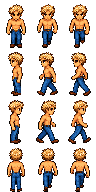
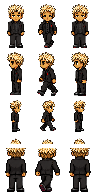
fix: compose age-aware splashes and harmonize character art

diff --git a/app/globals.css b/app/globals.css
@@ -81,7 +81,7 @@ input:checked + .switch::after { left: 16px; background: var(--green); }
 .world-base-asset { position: absolute; z-index: 0; inset: 0; width: 100%; height: 100%; object-fit: fill; image-rendering: pixelated; image-rendering: crisp-edges; user-select: none; pointer-events: none; }
 .path-arrow { position: absolute; z-index: 2; top: 540px; padding: 8px 10px; color: #684f33; border: 2px solid rgba(105,79,50,.34); background: rgba(236,207,144,.74); font: 800 9px/1 var(--font-geist-mono); letter-spacing: .12em; }
 .path-arrow span { color: #3f6c3c; font-size: 16px; vertical-align: middle; }.start-arrow { left: 28px; }.end-arrow { right: 28px; }
-.pixel-landmark { --trim:#563d35; position: absolute; z-index: 4; top: 84px; width: 300px; height: 316px; transform: translateX(-50%); color: #231f18; pointer-events: none; }
+.pixel-landmark { --trim:#563d35; position: absolute; top: 84px; width: 300px; height: 316px; transform: translateX(-50%); color: #231f18; pointer-events: none; }
 .landmark-asset { position: absolute; z-index: 1; left: 50%; bottom: 57px; height: auto; max-height: 218px; transform: translateX(-50%); object-fit: contain; image-rendering: pixelated; image-rendering: crisp-edges; filter: drop-shadow(5px 7px 0 rgba(38,58,32,.2)); }
 .building-glyph { position: absolute; z-index: 3; right: 26px; top: 38px; width: 24px; height: 24px; display: grid; place-items: center; color: #f5dda0; background: rgba(18,34,28,.87); border: 2px solid rgba(255,255,255,.17); font: 900 11px/1 var(--font-geist-mono); box-shadow: 2px 2px 0 rgba(0,0,0,.22); }
 .location-plaque { position: absolute; z-index: 5; left: 50%; bottom: 0; width: 218px; transform: translateX(-50%); display: grid; gap: 4px; padding: 8px 10px; text-align: center; color: #eaf1d7; background: #14251c; border: 3px solid #294c31; box-shadow: 4px 4px 0 rgba(32,54,33,.23); }
@@ -108,7 +108,7 @@ input:checked + .switch::after { left: 16px; background: var(--green); }
 .jao-token.is-found i { opacity: 1; }
 .player { position: absolute; width: 64px; height: 96px; transform: translate(-50%, -100%); transform-origin: center bottom; pointer-events: none; }
 .player-shadow { position: absolute; z-index: -1; bottom: -2px; left: 15px; width: 34px; height: 9px; background: rgba(0,0,0,.32); border-radius: 50%; }
-.player-sprite { position: absolute; inset: 0; background: url('/characters/dry-baby.png') left top / 192px 384px no-repeat; image-rendering: pixelated; image-rendering: crisp-edges; transform-origin: 50% 100%; }
+.player-sprite { position: absolute; inset: 0; overflow: visible; background: url('/characters/dry-baby.png') left top / 192px 384px no-repeat; image-rendering: pixelated; image-rendering: crisp-edges; transform-origin: 50% 100%; }
 .player.is-running .player-sprite { animation: runStride .176s steps(2) infinite; }
 .player.is-running::after { content: ""; position: absolute; left: 5px; bottom: 1px; width: 38px; height: 14px; z-index: -2; background: radial-gradient(ellipse at 25% 70%, rgba(237,221,172,.64) 0 8%, transparent 10%), radial-gradient(ellipse at 52% 55%, rgba(237,221,172,.42) 0 7%, transparent 9%), radial-gradient(ellipse at 78% 78%, rgba(237,221,172,.28) 0 6%, transparent 8%); animation: runDust .176s steps(2) infinite; }
 .player b { position: absolute; left: 50%; bottom: -14px; transform: translateX(-50%); padding: 2px 5px; background: #09120e; color: var(--green); border: 1px solid #426048; font: 8px/1 var(--font-geist-mono); }
@@ -307,7 +307,7 @@ input:checked + .switch::after { left: 16px; background: var(--green); }
 @media (max-width: 560px) {
   .intro { padding-inline: 18px; }.intro-nav { padding-inline: 18px; }.intro-nav .brand span:last-child { display: none; }.intro-actions { flex-direction: column; }.intro-actions button { width: 100%; }.intro-preferences { flex-direction: column; align-items: center; gap: 12px; }
   .quest-box { padding: 7px; }.quest-gem { width: 34px; height: 34px; }.quest-box strong { font-size: 10px; }.hud-actions > button { height: 38px; padding: 0 9px; }.hud-actions > button:first-child { display: none; }
-  .hotspot-label { display: none; }.player { width: 48px; height: 64px; }
+  .hotspot-label { display: none; }
   .memory-modal { padding: 30px 23px; }.memory-modal h2 { font-size: 31px; }.inventory-panel > footer { justify-content: stretch; }.inventory-panel > footer button { flex: 1; }
   .quick-nav { padding-inline: 15px; }.quick-nav .brand span:last-child { display: none; }.quick-hero, .quick-section { padding-left: 20px; padding-right: 20px; }.quick-hero h1 { font-size: 55px; }.hero-actions { flex-direction: column; }.hero-actions > * { width: 100%; }
   .quick-stats { grid-template-columns: repeat(2, 1fr); }.quick-stats div:nth-child(2) { border-right: 0; }.quick-stats div:nth-child(-n+2) { border-bottom: 1px solid var(--line); }
@@ -383,14 +383,17 @@ input:checked + .switch::after { left: 16px; background: var(--green); }
 .scene-tree-left { left: -11px; bottom: 44px; width: 134px; height: 144px; }
 .scene-tree-right { right: 6px; bottom: 48px; width: 112px; height: 120px; }
 .scene-building { position: absolute; z-index: 2; left: 50%; bottom: 22px; width: min(240px, 37%); height: 196px; transform: translateX(-50%); object-fit: contain; image-rendering: pixelated; }
-.scene-player-back, .scene-far-person { position: absolute; z-index: 4; width: 64px; height: 96px; background: url('/characters/dry-adult.png') 0 0 / 192px 384px no-repeat; image-rendering: pixelated; transform-origin: center bottom; }
-.scene-player-back { left: 16%; bottom: 12px; transform: scale(1.32); background-position: 0 100%; }
-.scene-player-baby { background-image: url('/characters/dry-baby.png'); transform: scale(.8); }.scene-player-child { background-image: url('/characters/dry-teen.png'); transform: scale(.9); }.scene-player-teen { background-image: url('/characters/dry-teen.png'); transform: scale(1); }
+.scene-player-back, .scene-far-person { position: absolute; z-index: 4; width: 64px; height: 96px; image-rendering: pixelated; image-rendering: crisp-edges; transform-origin: center bottom; }
+.scene-player-back { left: 16%; bottom: 4px; background: url('/characters/dry-splash.png') 0 0 / 192px 96px no-repeat; transform: scale(1.5); }
+.scene-age-baby { background-position: 0 0; }.scene-age-teen { background-position: -64px 0; }.scene-age-adult { background-position: -128px 0; }
 .scene-far-person { left: 60%; bottom: 95px; transform: scale(.84); }
+.scene-far-person { background: url('/characters/dry-adult.png') 0 0 / 192px 384px no-repeat; }
 .scene-person-nilo { background-image: url('/characters/nilo.png'); }
 .scene-person-luna { filter: sepia(.45) saturate(1.4) hue-rotate(231deg); }
 .scene-person-python { filter: sepia(.8) saturate(1.9) hue-rotate(212deg) brightness(.83); }
 .scene-person-jao { background-image: url('/characters/jao.png'); }
+.scene-nilo .scene-player-back { left: 34%; bottom: 1px; }.scene-nilo .scene-far-person { left: 59%; bottom: 119px; transform: scale(.84); }
+.scene-jao .scene-player-back { left: 16%; bottom: 1px; }.scene-jao .scene-far-person { left: 78%; bottom: 118px; transform: scale(.7); }
 .scene-jao .scene-ground { filter: hue-rotate(17deg) brightness(.77); }.scene-python .scene-ground { filter: hue-rotate(28deg) brightness(.72); }
 .scene-caption { position: absolute; z-index: 6; left: 12px; top: 12px; padding: 6px 8px; border: 1px solid rgba(223,239,217,.23); background: rgba(8,16,12,.7); color: #dbe4cf; font: 700 8px/1 var(--font-geist-mono); letter-spacing: .14em; }
 .story-bottom { min-height: 193px; padding: 20px 22px 21px; display: grid; grid-template-columns: 118px 1fr auto; align-items: center; gap: 22px; border-top: 1px solid #394b3b; background: linear-gradient(135deg, #132019, #09110f); }
@@ -414,7 +417,7 @@ input:checked + .switch::after { left: 16px; background: var(--green); }
 .battle-actions { display: grid; grid-template-columns: repeat(3, 1fr); gap: 8px; margin-top: 25px; }.battle-actions button { min-height: 46px; border: 1px solid #36443d; background: #111b17; color: #ccd3c9; font: 700 9px/1.2 var(--font-geist-mono); cursor: pointer; }.battle-actions button.suggested { border-color: #93d875; color: #b2e998; }
 
 /* Poem pages and archive. */
-.poem-window { width: min(520px, 100%); position: relative; padding: 45px 39px 36px; border: 1px solid #947d4e; background: linear-gradient(145deg, #191b16, #111713); box-shadow: 10px 10px 0 rgba(0,0,0,.35); }.poem-window > small { color: #ceb277; font: 700 9px/1 var(--font-geist-mono); letter-spacing: .18em; }.poem-window h2 { margin: 18px 0 13px; font-family: Georgia, serif; font-size: 37px; font-weight: 400; }.poem-rule { width: 67px; height: 2px; background: #bda063; }.poem-window > p { margin: 24px 0 30px; color: #e1ddcc; white-space: pre-line; font: 18px/1.8 Georgia, serif; }
+.poem-window { width: min(720px, 100%); max-height: min(92svh, 820px); position: relative; overflow: auto; padding: 0; border: 1px solid #947d4e; background: linear-gradient(145deg, #191b16, #111713); box-shadow: 10px 10px 0 rgba(0,0,0,.35); }.poem-window .conversation-scene { height: 190px; }.poem-page { padding: 32px 39px 36px; }.poem-page > small { color: #ceb277; font: 700 9px/1 var(--font-geist-mono); letter-spacing: .18em; }.poem-window h2 { margin: 18px 0 13px; font-family: Georgia, serif; font-size: 37px; font-weight: 400; }.poem-rule { width: 67px; height: 2px; background: #bda063; }.poem-page > p { margin: 24px 0 30px; color: #e1ddcc; white-space: pre-line; font: 18px/1.8 Georgia, serif; }
 .computer-window { width: min(690px, 100%); max-height: min(780px, 85svh); overflow: auto; padding: 24px; border: 1px solid #486250; background: #0a1310; box-shadow: 10px 10px 0 rgba(0,0,0,.4); }.computer-window > header { display: flex; justify-content: space-between; align-items: center; }.computer-window > header small { color: #8ed780; font: 700 9px/1 var(--font-geist-mono); letter-spacing: .14em; text-transform: uppercase; }.computer-window > header h2 { margin: 8px 0; font-size: 26px; }.computer-close { width: 37px; height: 37px; display: grid; place-items: center; border: 1px solid #34443a; background: #121d17; cursor: pointer; }.computer-status { margin: 17px 0 23px; padding: 10px 12px; display: flex; align-items: center; gap: 8px; border: 1px solid #29372f; color: #8d9d91; font: 700 8px/1 var(--font-geist-mono); }.computer-status > span { width: 7px; height: 7px; border-radius: 50%; background: #8de078; }.computer-status b { margin-left: auto; color: #d7e5d2; }.computer-window section > h3 { margin: 0 0 12px; color: #9cc793; font: 700 10px/1 var(--font-geist-mono); letter-spacing: .13em; text-transform: uppercase; }.computer-empty { padding: 24px 12px; color: #87988c; font-size: 13px; }.computer-files { display: grid; gap: 8px; }.computer-files > button { min-height: 62px; padding: 10px 12px; display: flex; align-items: center; gap: 11px; text-align: left; border: 1px solid #29382e; background: #101b15; cursor: pointer; }.computer-files > button > .hud-icon { color: #d6bb79; }.computer-files > button > span { display: grid; gap: 5px; }.computer-files > button small { color: #799181; font: 700 8px/1 var(--font-geist-mono); }.computer-files > button strong { font-size: 13px; }.computer-files > button > b { margin-left: auto; color: #a4dd8d; }.computer-secret { margin-top: 28px; padding-top: 18px; border-top: 1px solid #2a362e; }.computer-secret > div { display: flex; align-items: center; gap: 15px; }.computer-secret .portrait-frame { width: 61px; height: 79px; }.computer-secret > div > span { display: grid; gap: 7px; }.computer-secret > div strong { color: #d0b8fa; font-size: 14px; }.computer-secret > div small { color: #9ba79d; font-size: 11px; }
 
 /* Mission rewards use the exact same native 32 × 48 sprites as the world. */

diff --git a/app/page.tsx b/app/page.tsx
@@ -394,11 +394,11 @@ const SCENERY: SceneryItem[] = [
   { x: 5580, y: 610, kind: "wildflowers", width: 37 },
 ];
 
-const EVOLUTION_QUESTS: Record<Exclude<AgeStage, "adult">, { memories: string[]; guide: NpcId; title: Record<Lang, string>; hint: Record<Lang, string> }> = {
+const EVOLUTION_QUESTS: Record<Exclude<AgeStage, "adult">, { memories: string[]; guide?: NpcId; title: Record<Lang, string>; hint: Record<Lang, string> }> = {
   baby: {
-    memories: ["origins", "joaquim"], guide: "nilo",
+    memories: ["origins", "joaquim"],
     title: { pt: "Crescer: primeiros passos", en: "Grow up: first steps", es: "Crecer: primeros pasos" },
-    hint: { pt: "Descubra suas origens, visite a escola e converse com Nilo.", en: "Discover your origins, visit the school and talk to Nilo.", es: "Descubre tus orígenes, visita la escuela y habla con Nilo." },
+    hint: { pt: "Descubra suas origens e visite a escola para completar a missão.", en: "Discover your origins and visit the school to complete the quest.", es: "Descubre tus orígenes y visita la escuela para completar la misión." },
   },
   teen: {
     memories: ["art", "design", "etec"], guide: "luna",
@@ -441,7 +441,7 @@ const spriteStyle = (index: number): React.CSSProperties => ({
 });
 
 function PixelLandmark({ landmark, memory, lang }: { landmark: Landmark; memory: Memory; lang: Lang }) {
-  return <div className={`pixel-landmark landmark-${landmark.kind}`} style={{ left: landmark.x }} aria-hidden="true">
+  return <div className={`pixel-landmark landmark-${landmark.kind}`} style={{ left: landmark.x, zIndex: 400 }} aria-hidden="true">
     <img className="landmark-asset" src={`/world/structures/${landmark.id}.png`} alt="" decoding="async" style={{ width: landmark.width }} />
     <span className="building-glyph">{landmark.glyph}</span>
     <div className="location-plaque"><small>{memory.year}</small><strong>{memory.title[lang]}</strong></div>
@@ -532,7 +532,7 @@ export default function Home() {
           setAgeStage(saved.ageStage === "teen" || saved.ageStage === "adult"
             ? saved.ageStage
             : savedIds(saved.unlocked).includes("etec") ? "adult"
-              : savedIds(saved.unlocked).includes("joaquim") && Array.isArray(saved.spokenNpcs) && saved.spokenNpcs.includes("nilo") ? "teen" : "baby");
+              : savedIds(saved.unlocked).includes("origins") && savedIds(saved.unlocked).includes("joaquim") ? "teen" : "baby");
           setFavorites(savedIds(saved.favorites));
           setHidden(savedIds(saved.hidden));
           setOrder(Array.from(new Set([...savedIds(saved.order), ...memories.map((memory) => memory.id)])));
@@ -576,7 +576,7 @@ export default function Home() {
   useEffect(() => {
     if (!hydrated.current || phase !== "game" || ageStage === "adult") return;
     const mission = EVOLUTION_QUESTS[ageStage];
-    if (!mission.memories.every((memoryId) => unlocked.includes(memoryId)) || !spokenNpcs.includes(mission.guide)) return;
+    if (!mission.memories.every((memoryId) => unlocked.includes(memoryId)) || (mission.guide && !spokenNpcs.includes(mission.guide))) return;
     const nextStage: Exclude<AgeStage, "baby"> = ageStage === "baby" ? "teen" : "adult";
     const frame = window.requestAnimationFrame(() => {
       setAgeStage(nextStage);
@@ -755,21 +755,18 @@ export default function Home() {
     backgroundSize: "192px 384px",
     backgroundPosition: `-${(moving ? walkFrame : 0) * 64}px -${directionRow[direction] * 96}px`,
   };
-  const agePortrait: CastId = ageStage === "adult" ? "dry" : ageStage;
   const evolutionQuest = ageStage === "adult" ? null : EVOLUTION_QUESTS[ageStage];
   const evolutionProgress = evolutionQuest
-    ? evolutionQuest.memories.filter((memoryId) => unlocked.includes(memoryId)).length + Number(spokenNpcs.includes(evolutionQuest.guide))
+    ? evolutionQuest.memories.filter((memoryId) => unlocked.includes(memoryId)).length + Number(Boolean(evolutionQuest.guide && spokenNpcs.includes(evolutionQuest.guide)))
     : 0;
-  const evolutionTotal = evolutionQuest ? evolutionQuest.memories.length + 1 : 0;
+  const evolutionTotal = evolutionQuest ? evolutionQuest.memories.length + Number(Boolean(evolutionQuest.guide)) : 0;
   const questTitle = evolutionQuest
     ? evolutionQuest.title[lang]
     : bossDefeated
     ? collectedPoems.length === POEMS.length
       ? (lang === "en" ? "Every verse recovered" : lang === "es" ? "Todos los versos recuperados" : "Todos os versos recuperados")
       : (lang === "en" ? "Recover forgotten poems" : lang === "es" ? "Recupera los poemas olvidados" : "Recupere os poemas perdidos")
-    : spokenNpcs.includes("nilo")
-      ? (lang === "en" ? "Find and defeat Python" : lang === "es" ? "Encuentra y derrota a Python" : "Encontre e derrote Python")
-      : t.missionName;
+    : (lang === "en" ? "Find and defeat Python" : lang === "es" ? "Encuentra y derrota a Python" : "Encontre e derrote Python");
 
   const orderedMemories = order.map((id) => memories.find((m) => m.id === id)).filter(Boolean) as Memory[];
   const selectedForPrint = orderedMemories.filter((m) => unlocked.includes(m.id) && !hidden.includes(m.id));
@@ -969,13 +966,13 @@ export default function Home() {
         <button className="down" aria-label={lang === "en" ? "Move down" : lang === "es" ? "Mover abajo" : "Mover para baixo"} onPointerDown={(event) => startTouchMovement(event, "s")} onPointerUp={(event) => stopTouchMovement(event, "s")} onPointerCancel={(event) => stopTouchMovement(event, "s")} onClick={() => movePlayer(0, 24, "down")}>▼</button>
       </div>
 
-      {openMemory && <MemoryModal memory={openMemory} lang={lang} age={agePortrait} unlocked={unlocked.includes(openMemory.id)} onClose={() => setOpenMemory(null)} onFavorite={() => toggle(openMemory.id, setFavorites)} favorite={favorites.includes(openMemory.id)} t={t} />}
+      {openMemory && <MemoryModal memory={openMemory} lang={lang} age={ageStage} unlocked={unlocked.includes(openMemory.id)} onClose={() => setOpenMemory(null)} onFavorite={() => toggle(openMemory.id, setFavorites)} favorite={favorites.includes(openMemory.id)} t={t} />}
       {inventoryOpen && <Inventory lang={lang} t={t} memories={orderedMemories} unlocked={unlocked} favorites={favorites} hidden={hidden} jaoUnlocked={jaoUnlocked} onClose={() => setInventoryOpen(false)} onOpen={(memory) => { setInventoryOpen(false); reveal(memory); }} onFavorite={(id) => toggle(id, setFavorites)} onHide={(id) => toggle(id, setHidden)} onMove={reorder} onPrint={() => window.print()} onShare={share} onRevealAll={revealAll} />}
       {mapOpen && <WorldMap lang={lang} t={t} explored={explored} pos={pos} unlocked={unlocked} bossDefeated={bossDefeated} collectedPoems={collectedPoems} onClose={() => setMapOpen(false)} />}
-      {openDialogue && <DialogueModal npc={openDialogue} lang={lang} index={dialogueIndex} onAdvance={advanceDialogue} onClose={() => { setOpenDialogue(null); setDialogueIndex(0); }} />}
-      {battleOpen && <BattleModal lang={lang} hp={bossHp} playerHp={playerHp} round={battleRound} onAction={battleAction} onClose={() => setBattleOpen(false)} />}
+      {openDialogue && <DialogueModal npc={openDialogue} age={ageStage} lang={lang} index={dialogueIndex} onAdvance={advanceDialogue} onClose={() => { setOpenDialogue(null); setDialogueIndex(0); }} />}
+      {battleOpen && <BattleModal age={ageStage} lang={lang} hp={bossHp} playerHp={playerHp} round={battleRound} onAction={battleAction} onClose={() => setBattleOpen(false)} />}
       {computerOpen && <ComputerModal lang={lang} poems={POEMS} collected={collectedPoems} jaoUnlocked={jaoUnlocked} bossDefeated={bossDefeated} onRead={(poem) => { setComputerOpen(false); setOpenPoem(poem); }} onClose={() => setComputerOpen(false)} />}
-      {openPoem && <PoemModal poem={openPoem} lang={lang} onClose={() => setOpenPoem(null)} />}
+      {openPoem && <PoemModal poem={openPoem} age={ageStage} lang={lang} onClose={() => setOpenPoem(null)} />}
       {evolutionNotice && <EvolutionModal stage={evolutionNotice} lang={lang} onClose={() => setEvolutionNotice(null)} />}
       {toast && <div className="toast" role="status" aria-live="polite">✦ {toast}</div>}
 
@@ -1011,13 +1008,14 @@ function WorldMap({ lang, t, explored, pos, unlocked, bossDefeated, collectedPoe
   </div>;
 }
 
-function MemoryModal({ memory, lang, age, onClose, onFavorite, favorite, t }: { memory: Memory; lang: Lang; age: CastId; unlocked: boolean; onClose: () => void; onFavorite: () => void; favorite: boolean; t: Record<string, string> }) {
+function MemoryModal({ memory, lang, age, onClose, onFavorite, favorite, t }: { memory: Memory; lang: Lang; age: AgeStage; unlocked: boolean; onClose: () => void; onFavorite: () => void; favorite: boolean; t: Record<string, string> }) {
   const landmark = LANDMARKS.find((item) => item.memoryId === memory.id);
+  const portraitCast: CastId = age === "adult" ? "dry" : age;
   return <div className="modal-backdrop" role="dialog" aria-modal="true" aria-labelledby="memory-title" onMouseDown={(e) => e.target === e.currentTarget && onClose()}>
     <article className="memory-modal enhanced-memory-modal">
       <button className="modal-close" onClick={onClose} aria-label={t.close}>×</button>
-      <SceneStage structure={landmark?.id} cast={age} />
-      <div className="memory-scene-bottom"><Portrait cast={age} /><div className="memory-scene-copy"><div className="memory-year">MEMORY // {memory.id === "future" ? t.current : memory.year}</div><p className="memory-category">{memory.category.toUpperCase()}</p><h2 id="memory-title">{memory.title[lang]}</h2><h3>{memory.subtitle[lang]}</h3><p>{memory.body[lang]}</p><div className="modal-actions"><button className={favorite ? "fav active" : "fav"} onClick={onFavorite} aria-pressed={favorite}>★ {t.favorite}</button>{memory.link && <a href={memory.link} target="_blank" rel="noopener noreferrer">↗ {memory.linkLabel}</a>}</div></div></div>
+      <SceneStage structure={landmark?.id} age={age} />
+      <div className="memory-scene-bottom"><Portrait cast={portraitCast} /><div className="memory-scene-copy"><div className="memory-year">MEMORY // {memory.id === "future" ? t.current : memory.year}</div><p className="memory-category">{memory.category.toUpperCase()}</p><h2 id="memory-title">{memory.title[lang]}</h2><h3>{memory.subtitle[lang]}</h3><p>{memory.body[lang]}</p><div className="modal-actions"><button className={favorite ? "fav active" : "fav"} onClick={onFavorite} aria-pressed={favorite}>★ {t.favorite}</button>{memory.link && <a href={memory.link} target="_blank" rel="noopener noreferrer">↗ {memory.linkLabel}</a>}</div></div></div>
     </article>
   </div>;
 }

diff --git a/app/game-extras.tsx b/app/game-extras.tsx
@@ -16,7 +16,7 @@ export const PORTRAIT_INDEX: Record<CastId, number> = {
 };
 
 export const NPCS: Array<{ id: NpcId; name: string; role: Record<GameLang, string>; x: number; y: number; secret?: boolean }> = [
-  { id: "nilo", name: "Nilo", role: { pt: "Guia da jornada", en: "Journey guide", es: "Guía del viaje" }, x: 1090, y: 545 },
+  { id: "nilo", name: "Nilo", role: { pt: "Guia no fim da jornada", en: "Guide at journey's end", es: "Guía al final del viaje" }, x: 5680, y: 548 },
   { id: "luna", name: "Luna", role: { pt: "Guardião das artes", en: "Keeper of the arts", es: "Guardiana de las artes" }, x: 1455, y: 590 },
   { id: "python", name: "Python", role: { pt: "O erro que bloqueia o caminho", en: "The bug blocking the path", es: "El error que bloquea el camino" }, x: 3360, y: 550 },
   { id: "jao", name: "Jão", role: { pt: "Cantor e compositor · caminho das artes", en: "Singer-songwriter · arts trail", es: "Cantante y compositor · camino del arte" }, x: 2080, y: 826, secret: true },
@@ -177,31 +177,32 @@ export function NpcSprite({ id, x, y, defeated = false }: { id: NpcId; x: number
   </div>;
 }
 
-export function SceneStage({ npc, structure, cast = "dry" }: { npc?: NpcId; structure?: string; cast?: CastId }) {
+export function SceneStage({ npc, structure, age = "adult" }: { npc?: NpcId; structure?: string; age?: AgeStage }) {
   const illustratedScene = npc === "jao" || npc === "nilo" ? `/world/interiors/dialogue-${npc}.png` : null;
   return <div className={`conversation-scene ${npc ? `scene-${npc}` : "scene-memory"}`} aria-label="Cena vista por trás do personagem">
     {illustratedScene ? <img className="scene-illustration" src={illustratedScene} alt="" decoding="async" /> : <>
       <img className="scene-ground" src="/world/terrain/world-base.png" alt="" decoding="async" />
       <img className="scene-tree scene-tree-left" src="/world/scenery/tree.png" alt="" decoding="async" />
       <img className="scene-tree scene-tree-right" src="/world/scenery/bush.png" alt="" decoding="async" />
-      {structure && <img className="scene-building" src={`/world/structures/${structure}.png`} alt="" decoding="async" />}
-      {npc && <span className={`scene-far-person scene-person-${npc}`} />}
-      <span className={`scene-player-back scene-player-${cast}`} />
     </>}
+    {structure && <img className="scene-building" src={`/world/structures/${structure}.png`} alt="" decoding="async" />}
+    {npc && <span className={`scene-far-person scene-person-${npc}`} />}
+    <span className={`scene-player-back scene-age-${age}`} />
     <span className="scene-caption">DRY // POV</span>
   </div>;
 }
 
-export function DialogueModal({ npc, lang, index, onAdvance, onClose }: { npc: NpcId; lang: GameLang; index: number; onAdvance: () => void; onClose: () => void }) {
+export function DialogueModal({ npc, age, lang, index, onAdvance, onClose }: { npc: NpcId; age: AgeStage; lang: GameLang; index: number; onAdvance: () => void; onClose: () => void }) {
   const lines = DIALOGUES[npc];
   const line = lines[index];
+  const portraitCast: CastId = line?.cast === "dry" ? (age === "adult" ? "dry" : age) : line?.cast;
   if (!line) return null;
   return <div className="story-backdrop" role="dialog" aria-modal="true" aria-labelledby="dialogue-speaker">
     <article className={`story-window story-${npc}`}>
       <button className="story-close" onClick={onClose} aria-label={lang === "en" ? "Close" : lang === "es" ? "Cerrar" : "Fechar"}><HudIcon name="close" /></button>
-      <SceneStage npc={npc} />
+      <SceneStage npc={npc} age={age} />
       <div className="story-bottom">
-        <Portrait cast={line.cast} />
+        <Portrait cast={portraitCast} />
         <div className="story-copy"><span>{NPCS.find((item) => item.id === npc)?.role[lang]}</span><h2 id="dialogue-speaker">{line.speaker}</h2><p>{line.text[lang]}</p></div>
         <button className="story-next" onClick={onAdvance}>{index === lines.length - 1 ? (lang === "en" ? "Finish" : lang === "es" ? "Terminar" : "Concluir") : (lang === "en" ? "Next" : lang === "es" ? "Siguiente" : "Continuar")} →</button>
       </div>
@@ -210,19 +211,19 @@ export function DialogueModal({ npc, lang, index, onAdvance, onClose }: { npc: N
   </div>;
 }
 
-export function BattleModal({ lang, hp, playerHp, round, onAction, onClose }: { lang: GameLang; hp: number; playerHp: number; round: number; onAction: (move: "inspect" | "fix" | "run") => void; onClose: () => void }) {
+export function BattleModal({ age, lang, hp, playerHp, round, onAction, onClose }: { age: AgeStage; lang: GameLang; hp: number; playerHp: number; round: number; onAction: (move: "inspect" | "fix" | "run") => void; onClose: () => void }) {
   const copy = lang === "en" ? { title: "PYTHON // FINAL ERROR", hint: "Inspect the failure, correct the logic and execute the solution.", inspect: "01 · INSPECT", fix: "02 · CORRECT", run: "03 · EXECUTE", player: "DRY", enemy: "ERROR" } : lang === "es" ? { title: "PYTHON // ERROR FINAL", hint: "Observa el fallo, corrige la lógica y ejecuta la solución.", inspect: "01 · OBSERVAR", fix: "02 · CORREGIR", run: "03 · EJECUTAR", player: "DRY", enemy: "ERROR" } : { title: "PYTHON // ERRO FINAL", hint: "Observe a falha, corrija a lógica e execute a solução.", inspect: "01 · OBSERVAR", fix: "02 · CORRIGIR", run: "03 · EXECUTAR", player: "DRY", enemy: "ERRO" };
   return <div className="story-backdrop battle-backdrop" role="dialog" aria-modal="true" aria-labelledby="battle-title"><article className="battle-window">
     <button className="story-close" onClick={onClose} aria-label={lang === "en" ? "Close" : lang === "es" ? "Cerrar" : "Fechar"}><HudIcon name="close" /></button>
     <header><small>BOSS ENCOUNTER</small><h2 id="battle-title">{copy.title}</h2><p>{copy.hint}</p></header>
-    <div className="battle-arena"><Portrait cast="dry" className="battle-portrait" /><span className="battle-versus">VS</span><span className="battle-enemy"><Portrait cast="python" className="battle-portrait" /><img className="battle-python-logo" src="/python-logo.svg" alt="" decoding="async" /></span></div>
+    <div className="battle-arena"><Portrait cast={age === "adult" ? "dry" : age} className="battle-portrait" /><span className="battle-versus">VS</span><span className="battle-enemy"><Portrait cast="python" className="battle-portrait" /><img className="battle-python-logo" src="/python-logo.svg" alt="" decoding="async" /></span></div>
     <div className="battle-health"><div><strong>{copy.player}</strong><span role="progressbar" aria-label={copy.player} aria-valuemin={0} aria-valuemax={100} aria-valuenow={Math.max(playerHp, 0)}><i style={{ width: `${Math.max(playerHp, 0)}%` }} /></span><b>{Math.max(playerHp, 0)}</b></div><div><strong>{copy.enemy}</strong><span role="progressbar" aria-label={copy.enemy} aria-valuemin={0} aria-valuemax={100} aria-valuenow={Math.max(hp, 0)}><i className="enemy-health" style={{ width: `${Math.max(hp, 0)}%` }} /></span><b>{Math.max(hp, 0)}</b></div></div>
     <div className="battle-actions"><button className={round === 0 ? "suggested" : ""} onClick={() => onAction("inspect")}>{copy.inspect}</button><button className={round === 1 ? "suggested" : ""} onClick={() => onAction("fix")}>{copy.fix}</button><button className={round >= 2 ? "suggested" : ""} onClick={() => onAction("run")}>{copy.run}</button></div>
   </article></div>;
 }
 
-export function PoemModal({ poem, lang, onClose }: { poem: Poem; lang: GameLang; onClose: () => void }) {
-  return <div className="story-backdrop" role="dialog" aria-modal="true" aria-labelledby="poem-title"><article className="poem-window"><button className="story-close" onClick={onClose} aria-label={lang === "en" ? "Close" : lang === "es" ? "Cerrar" : "Fechar"}><HudIcon name="close" /></button><small>{lang === "en" ? "RECOVERED MEMORY" : lang === "es" ? "MEMORIA RECUPERADA" : "MEMÓRIA RECUPERADA"}</small><h2 id="poem-title">{poem.title[lang]}</h2><div className="poem-rule" /><p>{poem.body[lang]}</p><button className="primary small" onClick={onClose}>{lang === "en" ? "Save to archive" : lang === "es" ? "Guardar en archivo" : "Guardar no arquivo"}</button></article></div>;
+export function PoemModal({ poem, age, lang, onClose }: { poem: Poem; age: AgeStage; lang: GameLang; onClose: () => void }) {
+  return <div className="story-backdrop" role="dialog" aria-modal="true" aria-labelledby="poem-title"><article className="poem-window"><button className="story-close" onClick={onClose} aria-label={lang === "en" ? "Close" : lang === "es" ? "Cerrar" : "Fechar"}><HudIcon name="close" /></button><SceneStage age={age} /><div className="poem-page"><small>{lang === "en" ? "RECOVERED MEMORY" : lang === "es" ? "MEMORIA RECUPERADA" : "MEMÓRIA RECUPERADA"}</small><h2 id="poem-title">{poem.title[lang]}</h2><div className="poem-rule" /><p>{poem.body[lang]}</p><button className="primary small" onClick={onClose}>{lang === "en" ? "Save to archive" : lang === "es" ? "Guardar en archivo" : "Guardar no arquivo"}</button></div></article></div>;
 }
 
 export function EvolutionModal({ stage, lang, onClose }: { stage: Exclude<AgeStage, "baby">; lang: GameLang; onClose: () => void }) {
